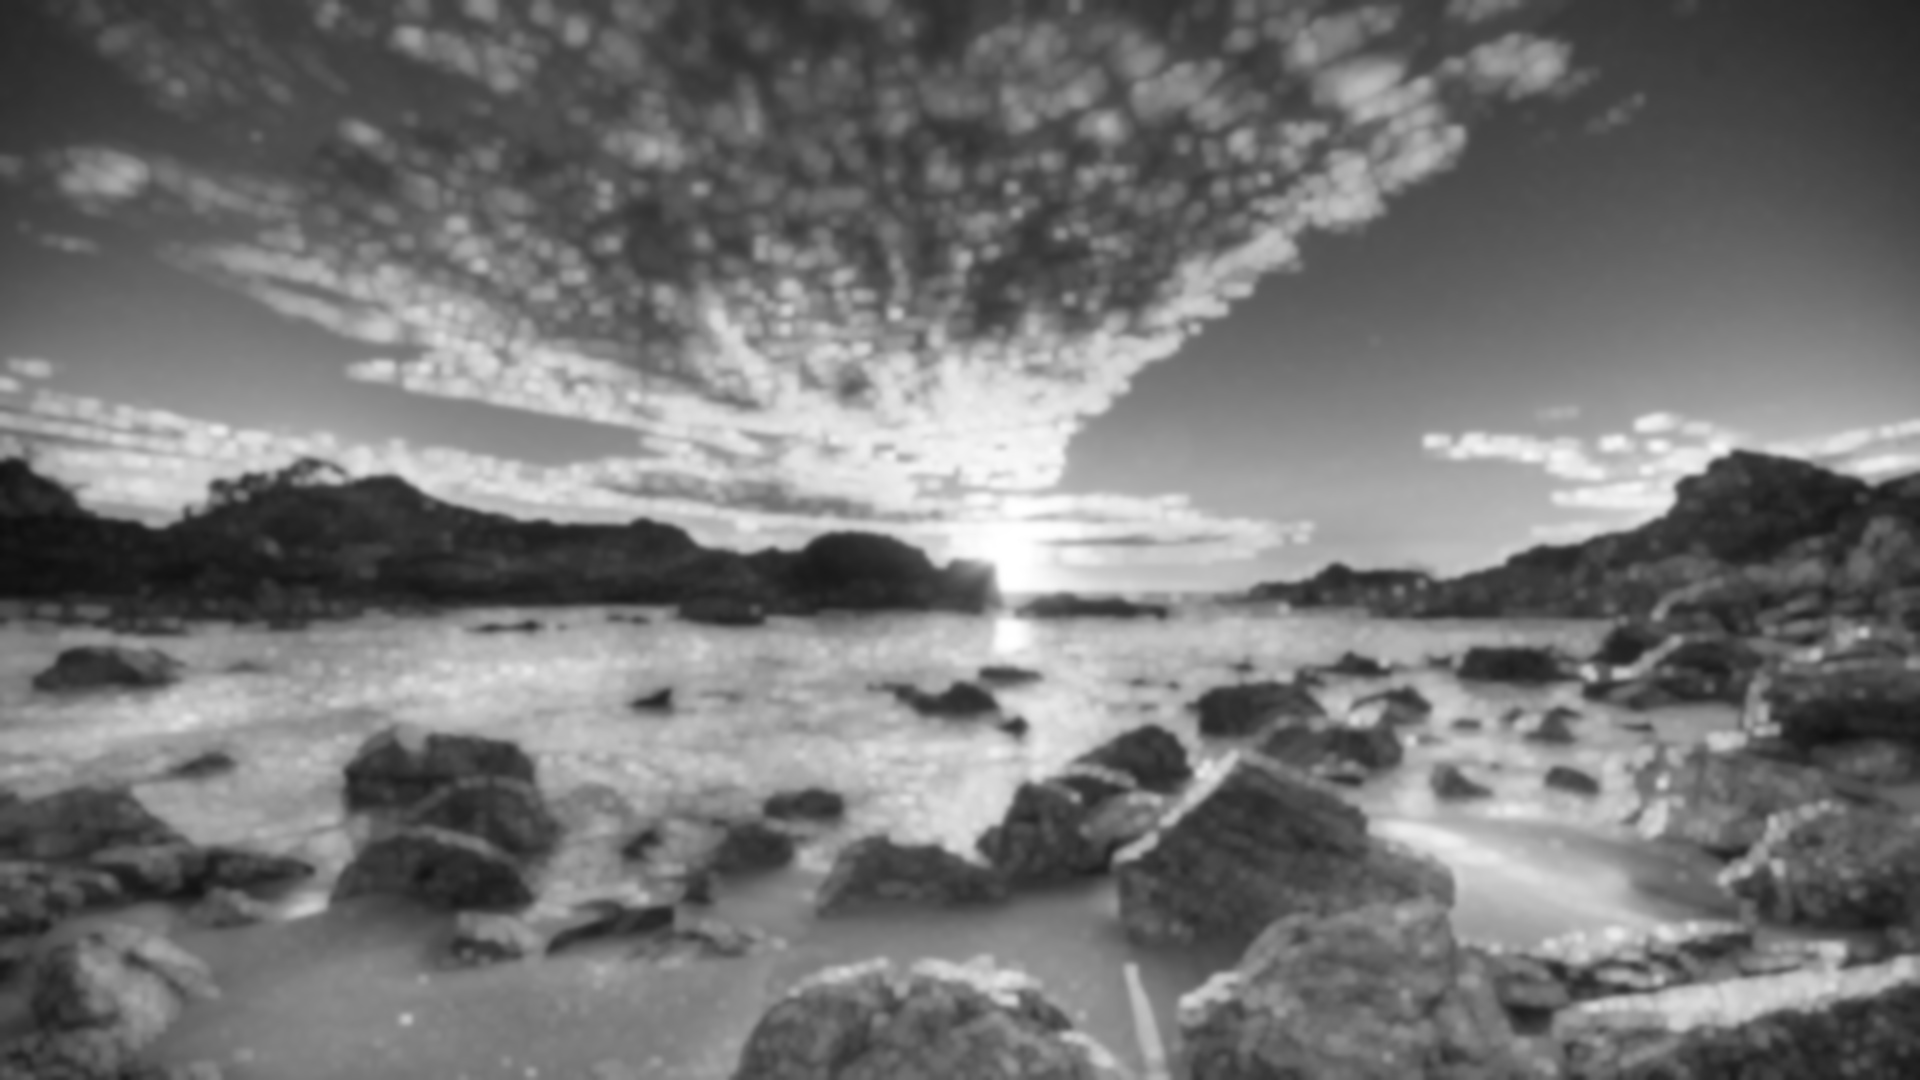
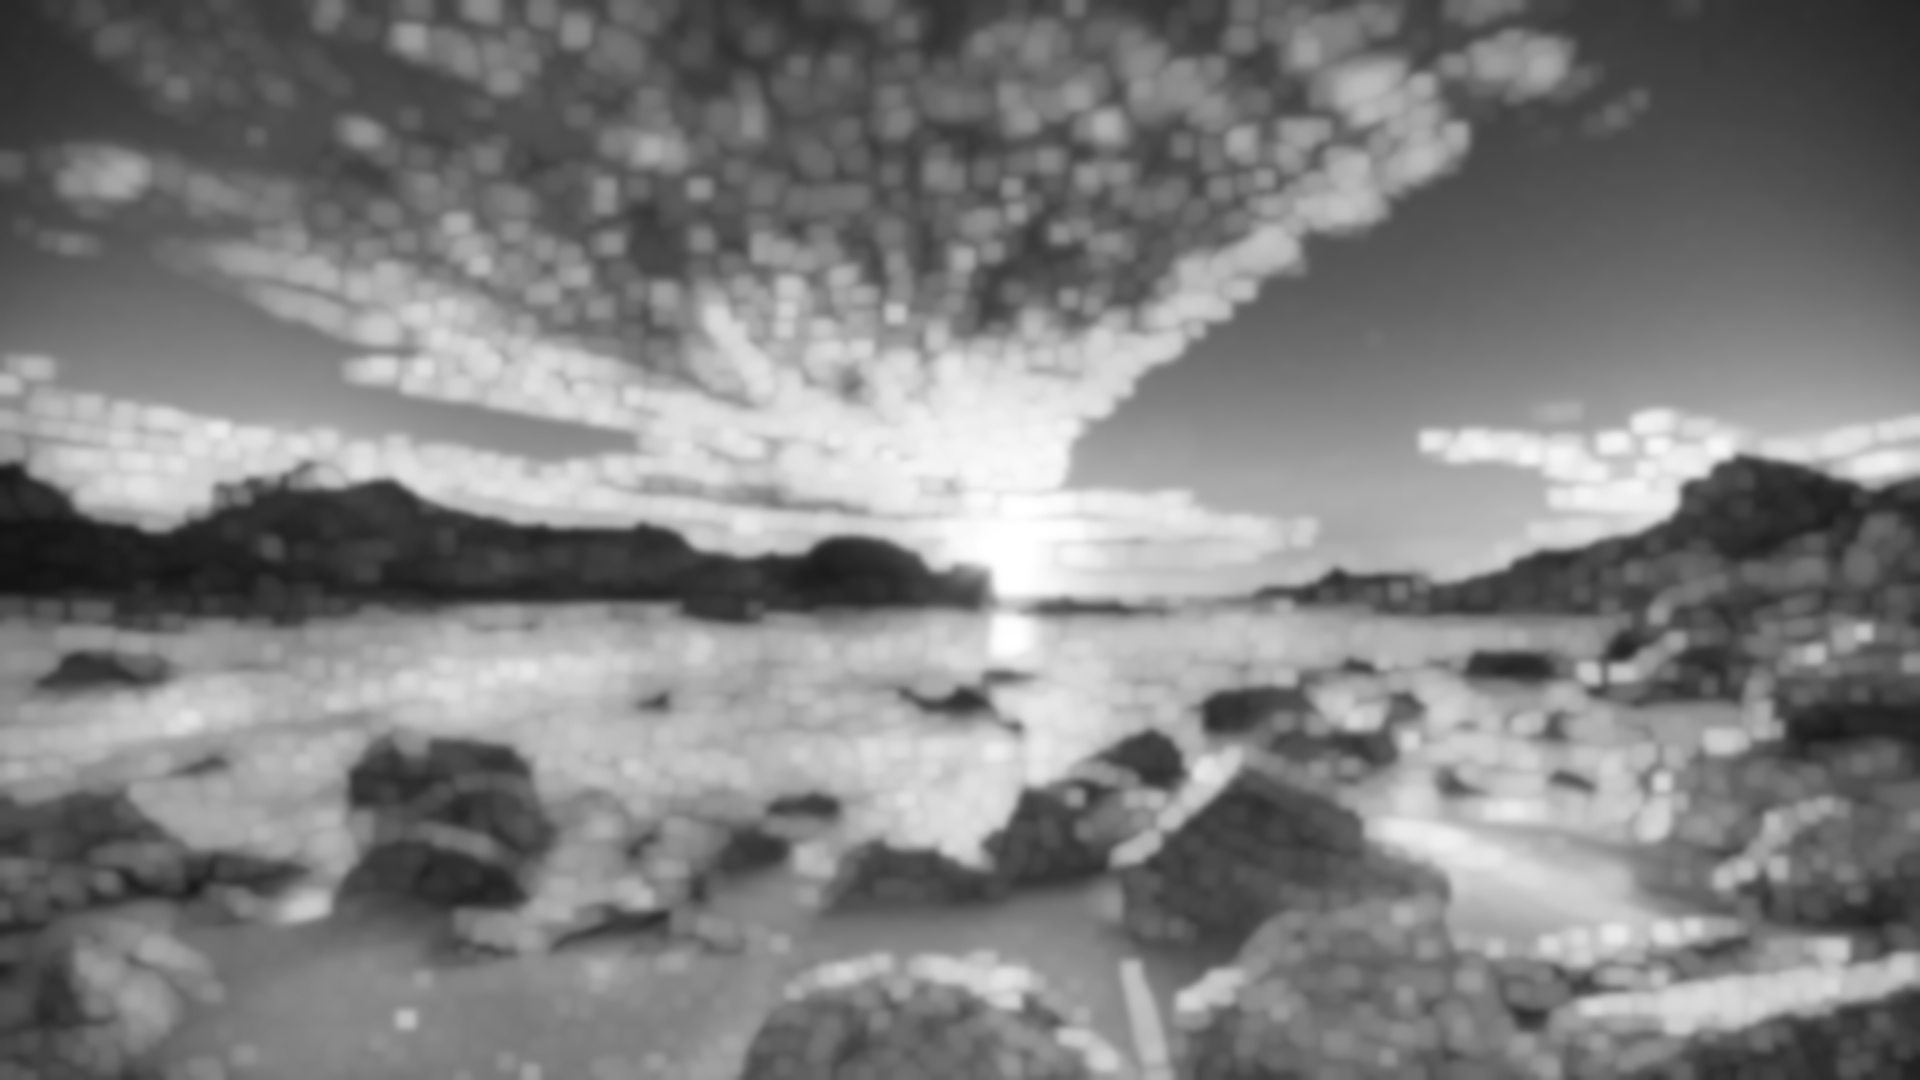
CLI ajout

diff --git a/main.py b/main.py
@@ -1,6 +1,7 @@
 import os
 import cv2
 from filters import grey, distension, blurred
+import sys
 
 input_dir = 'imgs'
 files = os.listdir(input_dir)
@@ -18,3 +19,46 @@ for f in files:
     image = blurred.blur(image)
 
     cv2.imwrite(f'output/{f}', image)
+
+a = {}
+
+
+args = sys.argv
+print(args)
+for i in range(0, len(args)):
+    arg = args[i]
+    print(i)
+    print(arg)
+    if args[i] == '-i':
+        inputdirectory = args[i + 1]
+    if args[i] == '-o':
+        outputdirectory = args[i + 1]
+
+    if arg == '-h':
+        print("-h,----help")
+        print("-i, --input-dir <directory>")
+        print("-o, --output-dir <directory>")
+
+
+
+files = os.listdir(inputdirectory)
+print(files)
+
+for f in files:
+    print(f)
+
+    image = cv2.imread(inputdirectory + '/' + f)
+
+    image = grey.grey(image)
+
+    image = distension.distension(image)
+
+    image = blurred.blur(image)
+
+    cv2.imwrite(outputdirectory + '/' + f,image)
+
+
+
+
+
+
